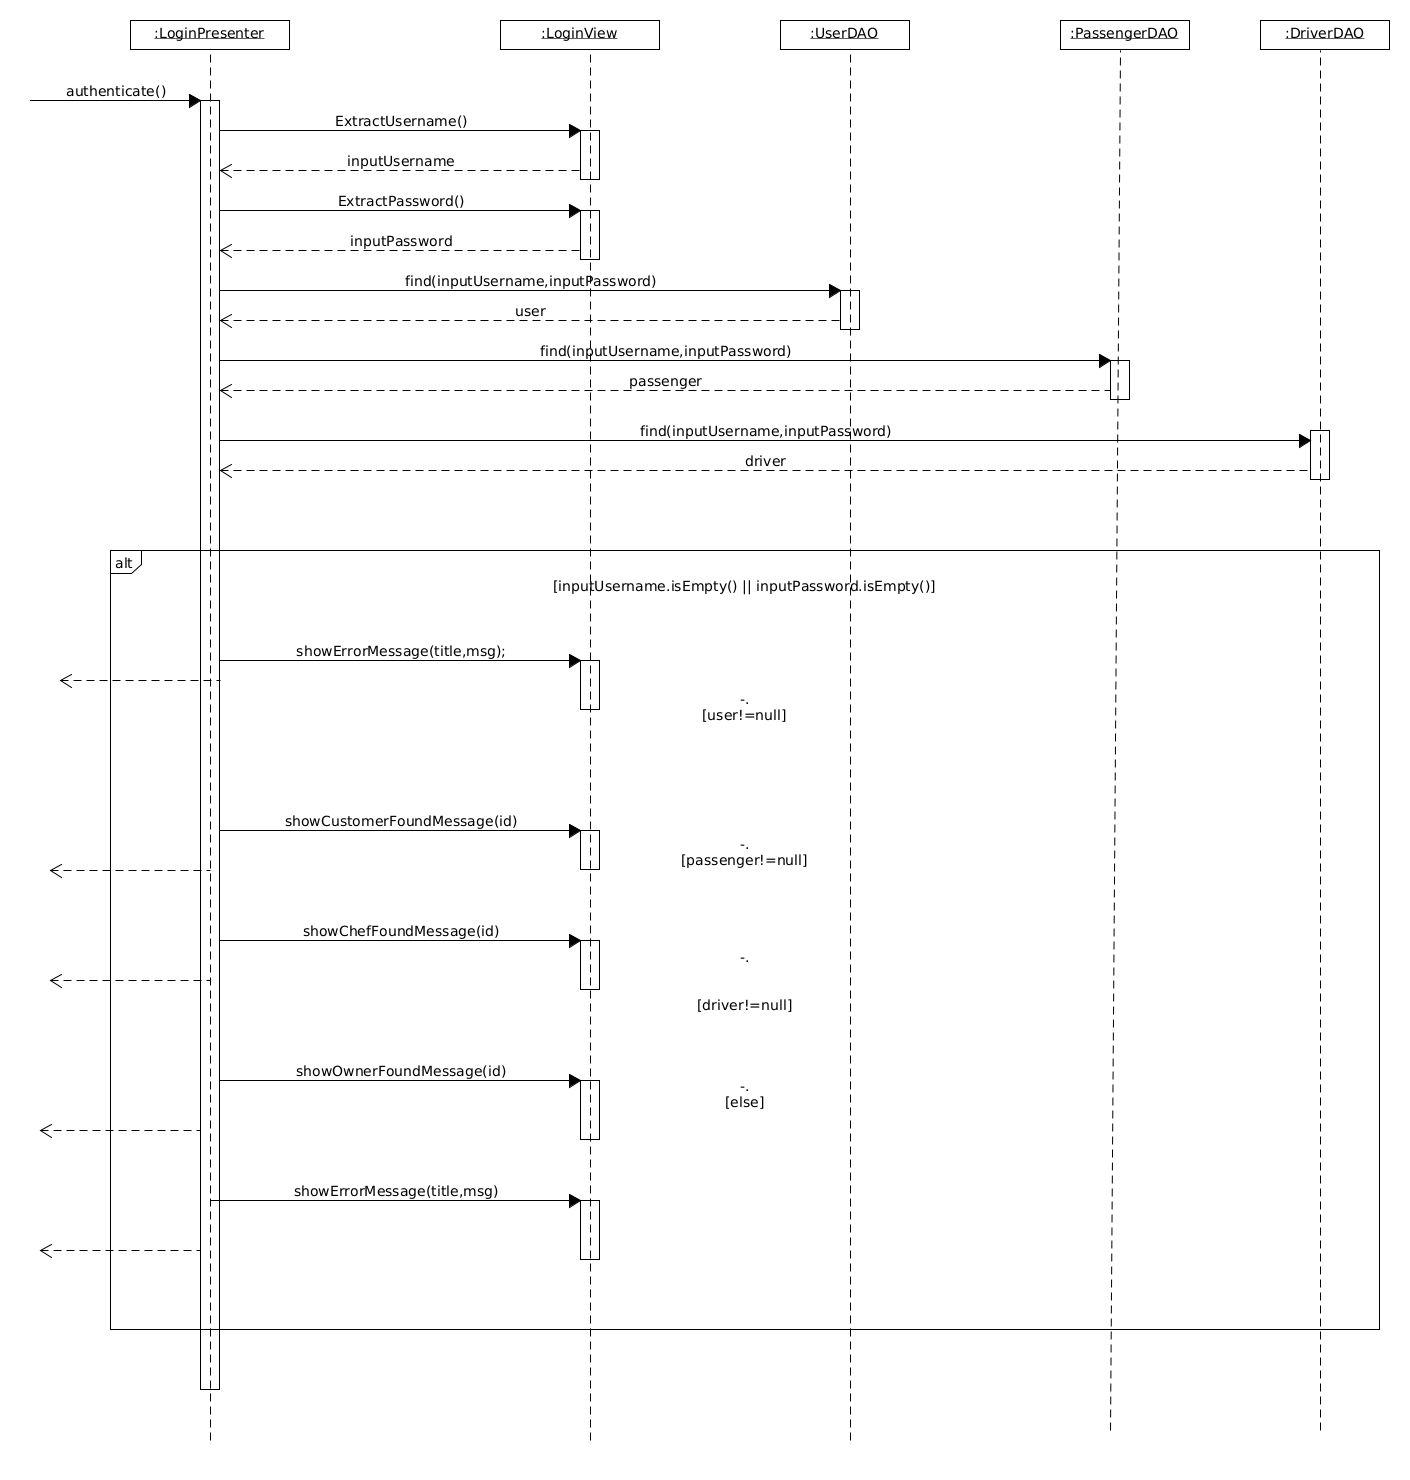
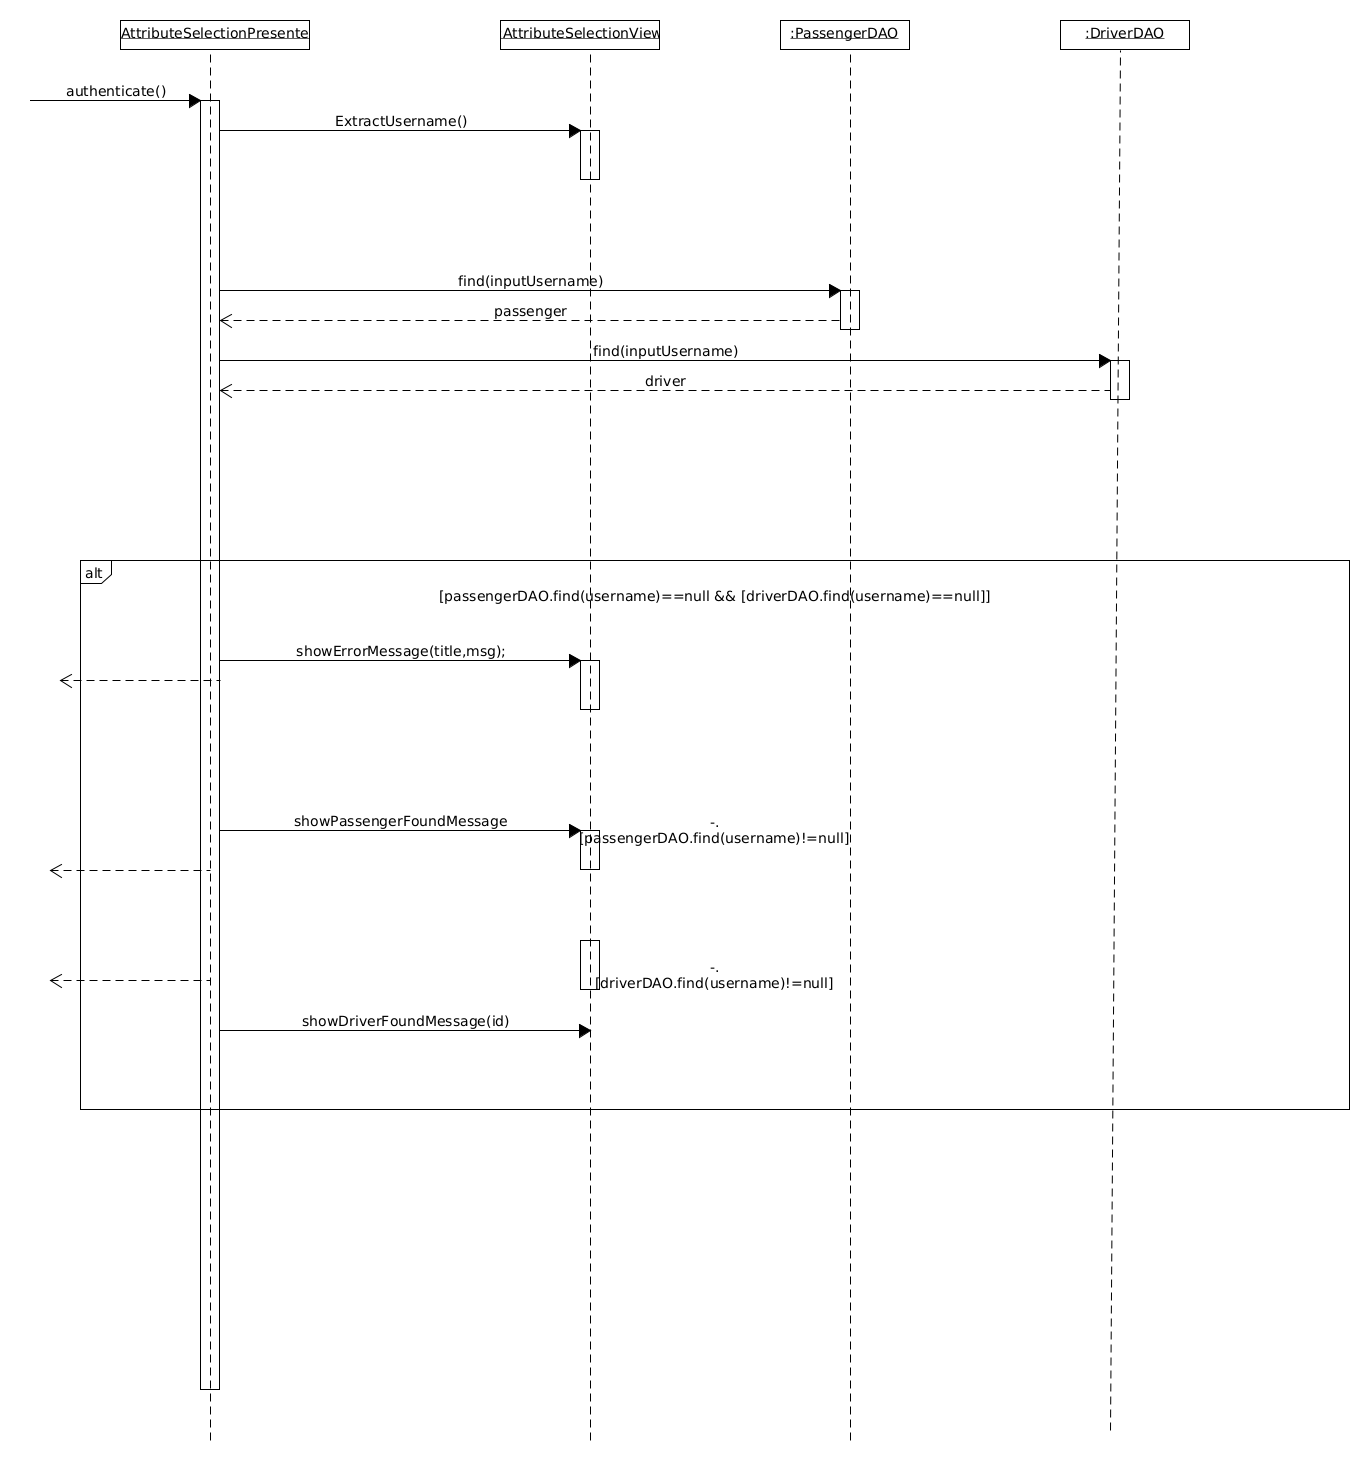
updated DIAGRAMS

diff --git a/docs/markdown/R4.md b/docs/markdown/R4.md
@@ -14,7 +14,7 @@
 
 [Βρίσκονται εδώ](app/src/main/java/gr/aueb/carpooling/model)
 
-[Τα layouts βρίσκονται εδώ](app/src/main/res/layout)
+Τα layouts [βρίσκονται εδώ](app/src/main/res/layout)
 
 
 [//]: # (## 3.3 Αυτόματοι έλεγχοι σε JUnit οι οποίοι ελέγχουν τη λογική του πεδίου)
